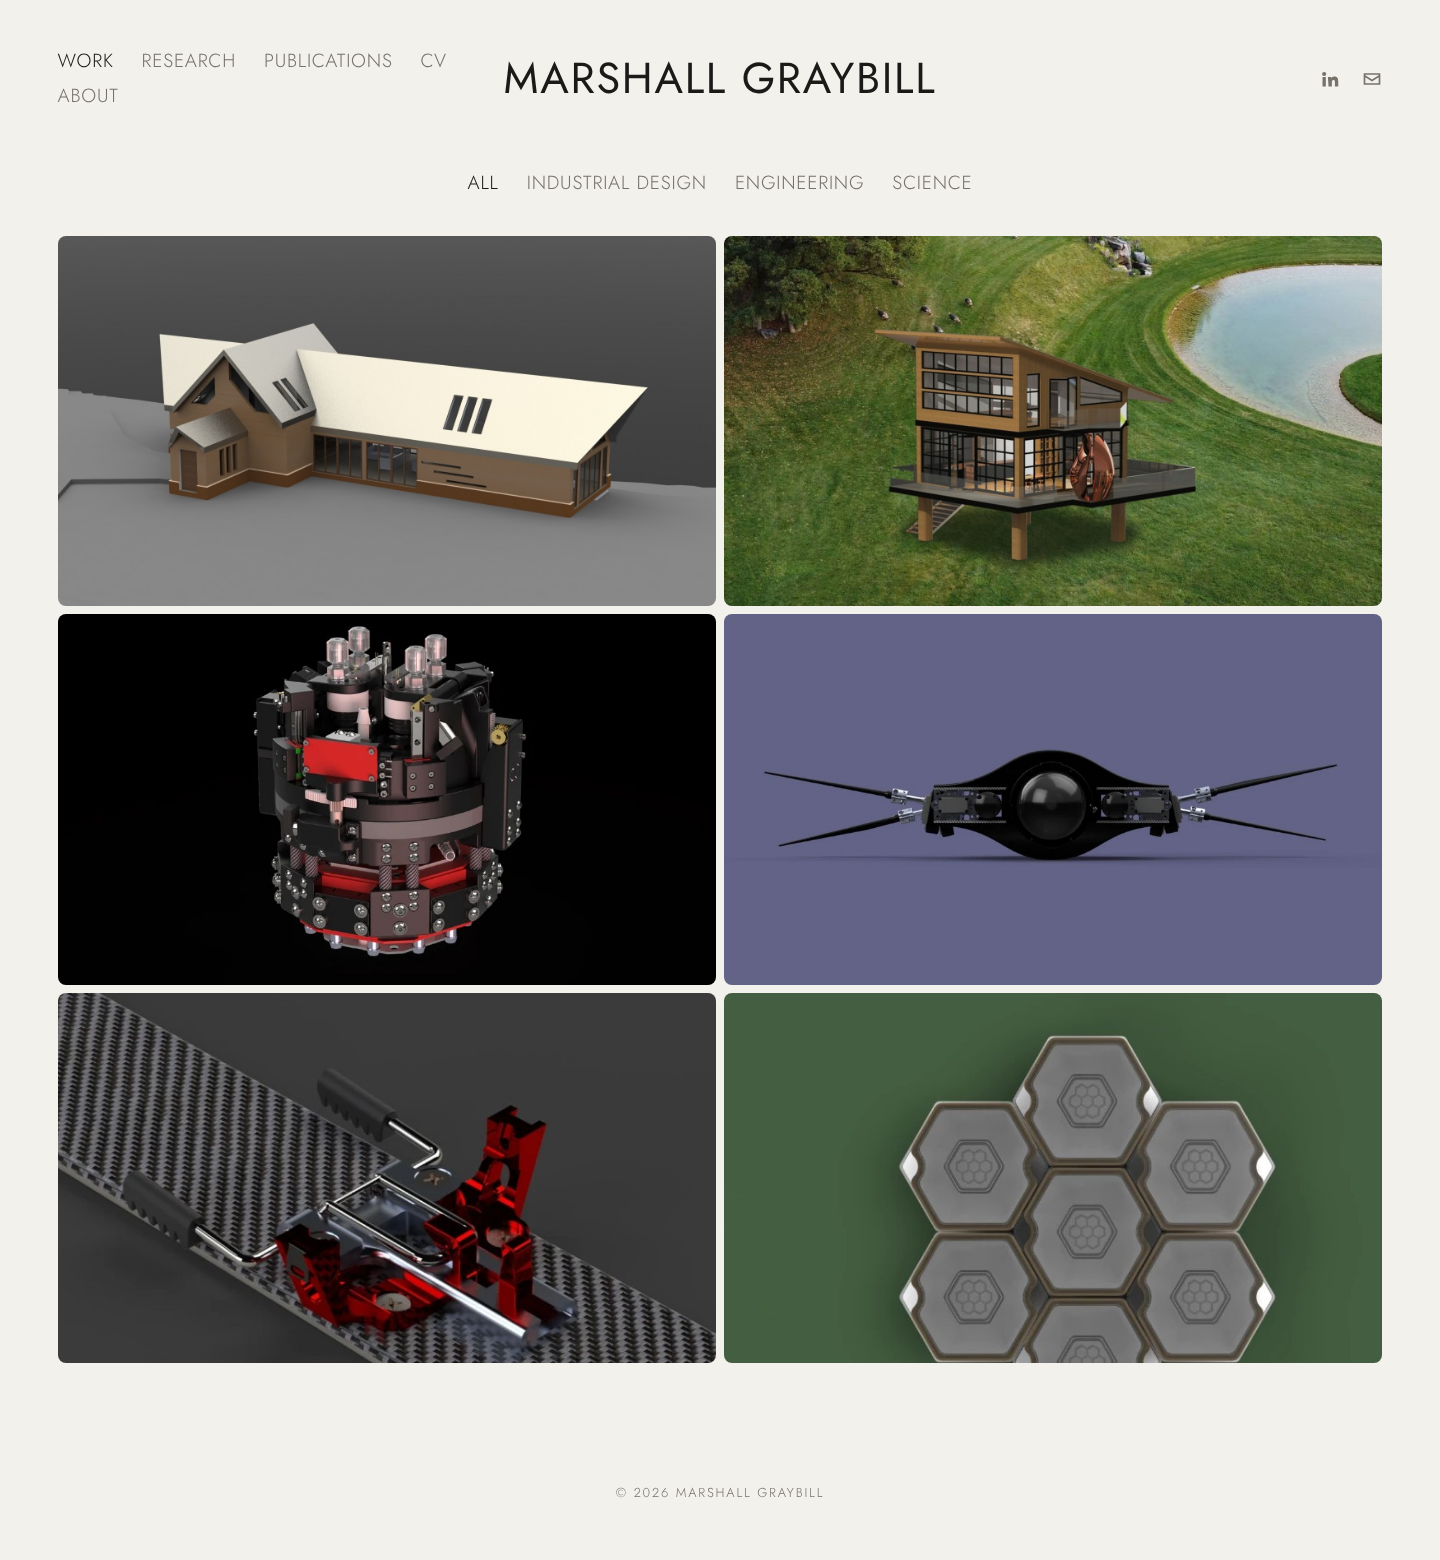
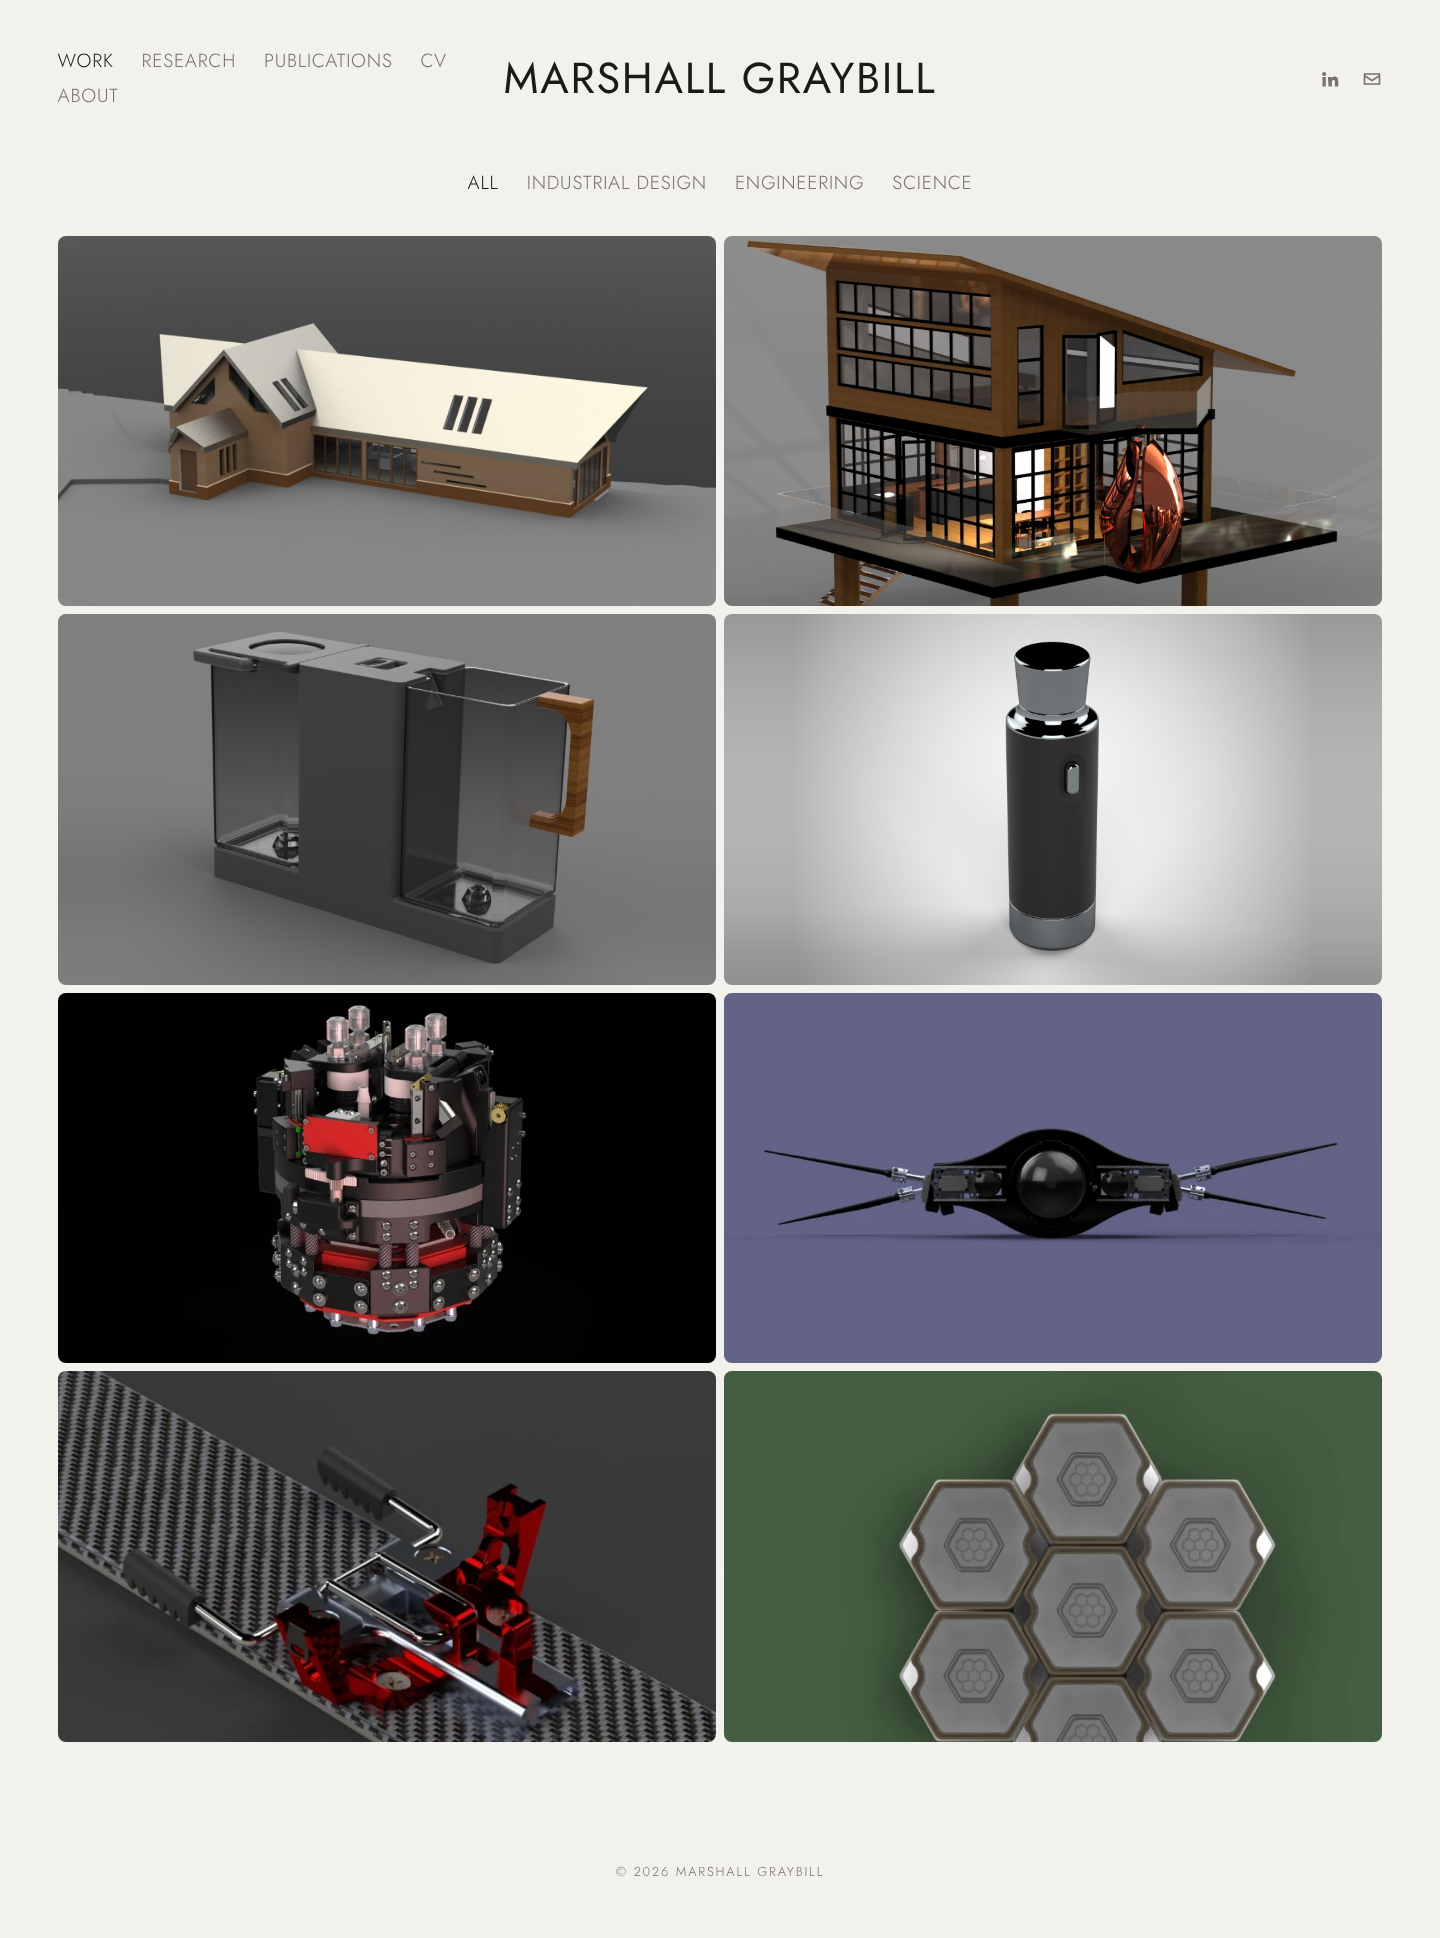
Add Flavor Dispensing Water Bottle project page
Claude-Session: https://claude.ai/code/session_01FRyJPBebUtKmxdzujR9oGm

diff --git a/projects/flavor-bottle.html b/projects/flavor-bottle.html
@@ -1,0 +1,59 @@
+<!doctype html>
+<html lang="en">
+<head>
+  <meta charset="utf-8">
+  <meta name="viewport" content="width=device-width, initial-scale=1">
+  <title>Flavor Dispensing Water Bottle · Marshall Graybill</title>
+  <meta name="description" content="A water bottle with a push-button mechanism that dispenses a precise dose of natural flavoring into the water.">
+  <link rel="preconnect" href="https://fonts.googleapis.com">
+  <link rel="preconnect" href="https://fonts.gstatic.com" crossorigin>
+  <link href="https://fonts.googleapis.com/css2?family=Jost:wght@300;400&display=swap" rel="stylesheet">
+  <link rel="stylesheet" href="../css/style.css">
+</head>
+<body>
+
+<header class="site-header">
+  <nav class="nav" aria-label="Main">
+    <a class="on" href="../index.html">Work</a>
+    <a href="../research.html">Research</a>
+    <a href="../publications.html">Publications</a>
+    <a href="../cv.html">CV</a>
+    <a href="../about.html">About</a>
+  </nav>
+  <a class="name" href="../index.html">Marshall Graybill</a>
+  <div class="icons">
+    <a href="#" aria-label="LinkedIn"><svg viewBox="0 0 24 24" fill="currentColor"><path d="M4.98 3.5a2.5 2.5 0 1 1 0 5 2.5 2.5 0 0 1 0-5zM3 9.5h4V21H3zM9.5 9.5h3.8v1.6h.06c.53-1 1.83-2.06 3.77-2.06 4.03 0 4.77 2.65 4.77 6.1V21h-4v-5.1c0-1.22-.02-2.79-1.7-2.79-1.7 0-1.96 1.33-1.96 2.7V21h-4z"/></svg></a>
+    <a href="mailto:" aria-label="Email"><svg viewBox="0 0 24 24" fill="currentColor"><path d="M2 5h20v14H2zm2 2v.5l8 5 8-5V7zm0 2.86V17h16V9.86l-8 5z"/></svg></a>
+  </div>
+</header>
+
+<main class="project">
+  <section class="project-head">
+    <div class="kicker">Industrial Design · Product</div>
+    <h1>Flavor Dispensing Water Bottle</h1>
+    <p>This water bottle incorporates an innovative mechanism for dispensing natural flavorings into water. A conveniently placed button on the side of the bottle allows users to release flavoring with ease. When the button is pressed, a pressure differential draws a precise amount of flavoring and sprays it into the water, ensuring consistent taste.</p>
+    <p>The bottle was designed to explore opportunities in the rapidly growing flavored water market. Early prototypes were developed and tested using FDM-printed components.</p>
+    <ul class="facts">
+      <li>Mechanism <b>Pressure differential</b></li>
+      <li>Control <b>Side button</b></li>
+      <li>Prototyping <b>FDM printing</b></li>
+    </ul>
+  </section>
+
+  <div class="shots">
+    <div class="row">
+      <figure><img src="../images/projects/flavor-bottle/front.jpg" alt="Front view of the matte black bottle with a glossy tapered cap and grey base" loading="lazy"><figcaption>Front</figcaption></figure>
+      <figure><img src="../images/projects/flavor-bottle/three-quarter.jpg" alt="Three-quarter view showing the flavor button on the side of the bottle" loading="lazy"><figcaption>Three-quarter · flavor button</figcaption></figure>
+      <figure><img src="../images/projects/flavor-bottle/section.jpg" alt="Section view revealing the flavor reservoir, button, and dispensing tubing inside the bottle" loading="lazy"><figcaption>Section · dispensing mechanism</figcaption></figure>
+    </div>
+  </div>
+
+  <nav class="pager" aria-label="Projects">
+    <a href="kohler-splash.html">← Kohler Splash</a>
+    <a href="../index.html">All work →</a>
+  </nav>
+</main>
+
+<footer class="site-footer">© Marshall Graybill</footer>
+</body>
+</html>

diff --git a/index.html b/index.html
@@ -55,6 +55,11 @@
     <div class="cap"><span>Industrial Design · Product</span><h3>Kohler Splash</h3></div>
   </a>
 
+  <a class="tile" href="projects/flavor-bottle.html" data-tags="id eng">
+    <img src="images/projects/flavor-bottle/cover.jpg" alt="Flavor dispensing water bottle render">
+    <div class="cap"><span>Industrial Design · Engineering</span><h3>Flavor Dispensing Bottle</h3></div>
+  </a>
+
   <!-- Placeholders below: images cropped from the old site until full-size files are added -->
   <a class="tile" href="#" data-tags="eng sci">
     <img src="images/projects/placeholder/mechanism.jpg" alt="">

diff --git a/projects/kohler-splash.html b/projects/kohler-splash.html
@@ -66,7 +66,7 @@
 
   <nav class="pager" aria-label="Projects">
     <a href="loft-house.html">← Loft House</a>
-    <a href="../index.html">All work →</a>
+    <a href="flavor-bottle.html">Next: Flavor Dispensing Bottle →</a>
   </nav>
 </main>
 
